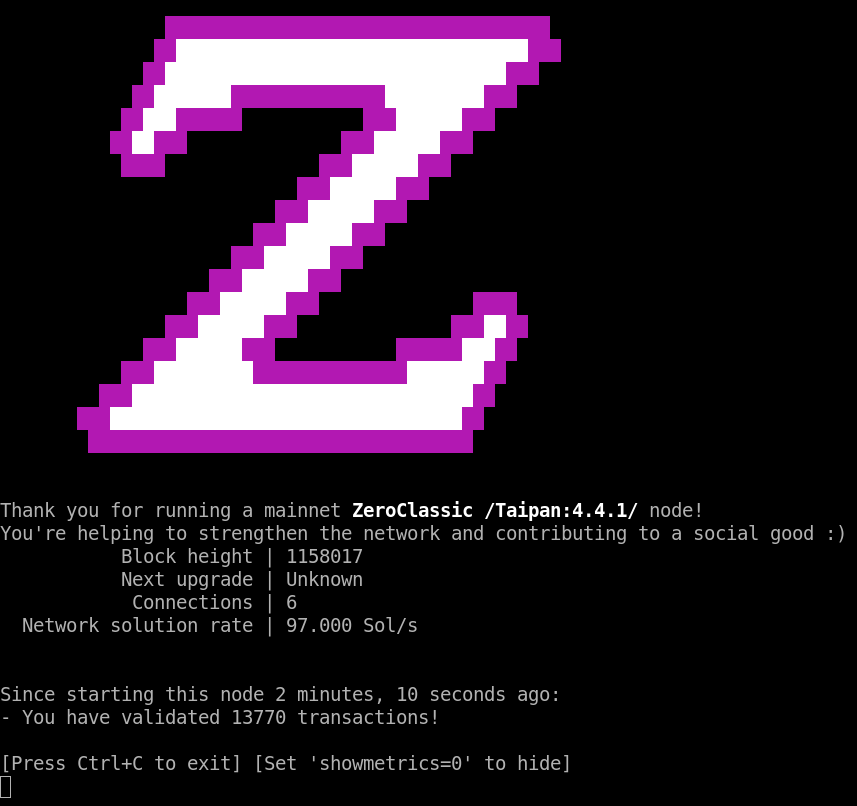
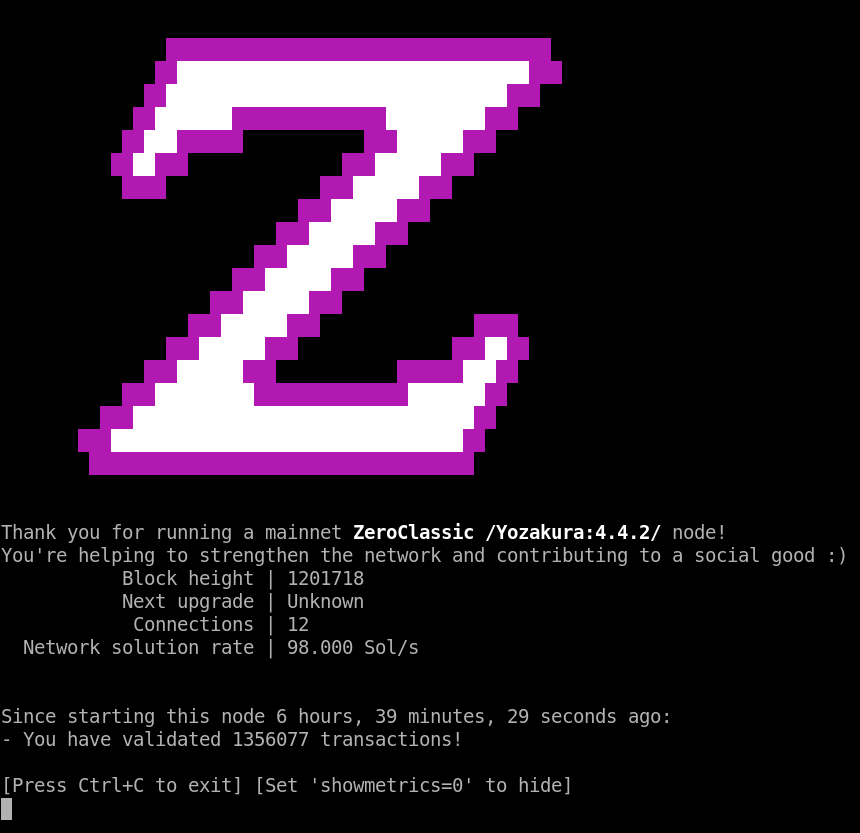
Readme and screenshot for v4.4.2

diff --git a/README.md b/README.md
@@ -1,4 +1,4 @@
-ZeroClassic v4.4.1
+ZeroClassic v4.4.2
 <img align="right" width="80" height="80" src="doc/imgs/logo.png">
 ===========
 
@@ -15,7 +15,7 @@ What differentiates ZeroClassic from Zcash?
 
 * No developer fees, founder rewards, funding streams or similar rules imposed to tax miners,
 * No "engineered scarcity" known as "halving", you are never "late to the party",
-* Proof of Work algorithm still resists ASICs,
+* Proof of Work algorithm Equihash (n=192, k=7) still resists ASICs,
 * The team is not backed up by any company, we are just few people with passion for technology, freedom and privacy.
 
 
